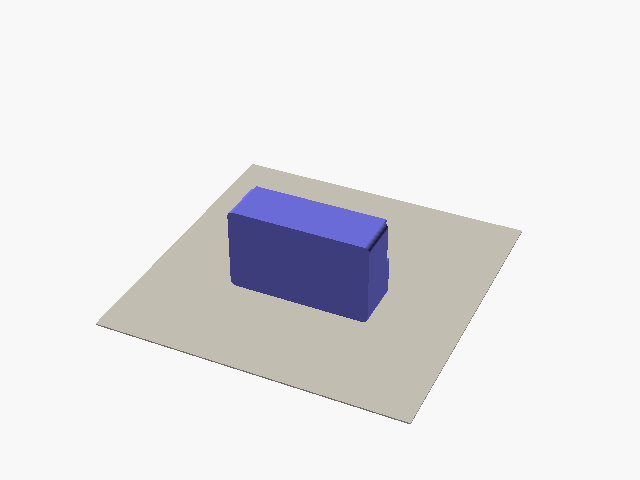
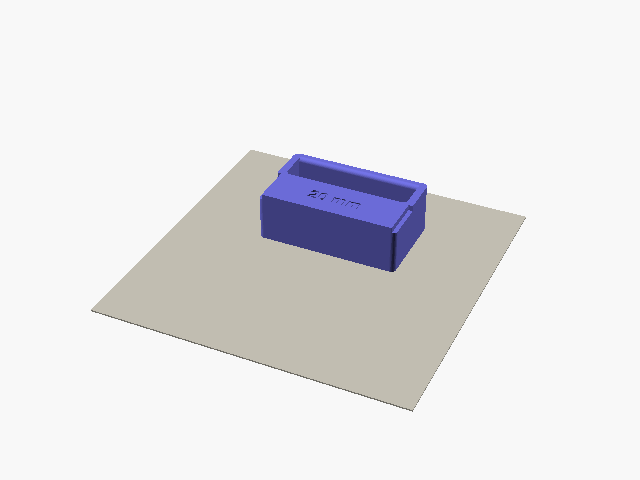
feat: print the edge and pocket inserts on their backs
The slot needs no supports this way, and the grip stands upright,
so the slicer's fuzzy skin can reach it.

diff --git a/web/catalog.py b/web/catalog.py
@@ -43,7 +43,6 @@ POCKET_SHAPE = [num("slot_d", "Pocket depth", 6, 25, 1, 20, help="From the lip t
 # 2 * (pk_w/2 - clear - lip_in - skin) = 90
 MAX_W = 90
 
-INSERT_SUPPORTS = "supports under the slot floor"
 SOLID = "3 walls · 15% gyroid"
 
 HOUSING = {
@@ -130,7 +129,7 @@ INSERTS = [
             {"label": "Sloper", "icon": "sloper", "blurb": "round 35° curve, open hand", "values": {"edge_angle": -35, "ergo": 0, "slot_d": 25}},
         ]},
         "parts": [{"part": "insert_edge", "name": "Edge insert",
-                   "supports": INSERT_SUPPORTS, "settings": SOLID}],
+                   "supports": "no supports", "settings": SOLID}],
         "params": EDGE_SHAPE + [
             num("slot_w", "Edge width", 40, MAX_W, 1, 90),
             num("ergo", "Ergo curve", 0, 5, 0.5, 0, help="The lip curves this far back in the middle for the longer middle fingers. The middle gets deeper, the ends shallower and rounder."),
@@ -148,7 +147,7 @@ INSERTS = [
             {"label": "Three", "icon": "three", "blurb": "three fingers", "values": {"pocket_n": 1, "pocket_w": 58}},
         ]},
         "parts": [{"part": "insert_pocket", "name": "Pocket insert",
-                   "supports": INSERT_SUPPORTS, "settings": SOLID}],
+                   "supports": "no supports", "settings": SOLID}],
         "params": [
             num("pocket_n", "Pockets", 1, 3, 1, 1, unit=""),
             num("pocket_w", "Pocket width", 18, MAX_W, 1, 58, help="Mono about 22, two fingers about 40, three fingers about 58."),

diff --git a/PRINTING.md b/PRINTING.md
@@ -25,8 +25,7 @@ Each part has one right way up. It keeps the load running along the layers and t
 | Part | On the bed | Supports |
 | --- | --- | --- |
 | Housing | On its front, anchor plate flat on the bed | None |
-| Edge or pocket insert | Upside down, top face down | Only under the slot floor |
-| Two-sided insert | On its back, front up | None |
+| Edge, pocket or two-sided insert | On its back, front up | None |
 | Roller frame | Upright, floor down | None |
 | Roller | Standing on one end | None |
 | Printed axle | Lying down | None |
@@ -82,6 +81,5 @@ If it sticks, follow step 3 below, then print the fit test again.
 
 ## Before your first session
 
-- Pull out all the supports, and make sure none are left in the slot or the pocket.
 - Look for split layers at the anchor, at the lips, at the stop and at the grip. Don't use a cracked part.
 - Hang the block from the carabiner and load it slowly by hand before you pull hard.

diff --git a/README.md b/README.md
@@ -32,9 +32,9 @@ The anchor holds the carabiner right under the grip, so the edge should stay lev
 
 ## Printing
 
-Print everything in PETG. The housing stands on its front, the two-sided inserts go on their backs, the roller frame stands upright, and the edge and pocket inserts go upside down. The files you download already sit that way. A housing and one edge insert take about 180 g of filament.
+Print everything in PETG. The housing stands on its front, the inserts go on their backs, and the roller frame stands upright. The files you download already sit that way. A housing and one edge insert take about 180 g of filament.
 
-The [printing guide](PRINTING.md) has the settings, where the supports go, and how to check the fit.
+The [printing guide](PRINTING.md) has the settings, which way up each part goes, and how to check the fit.
 
 ## You'll also need
 
